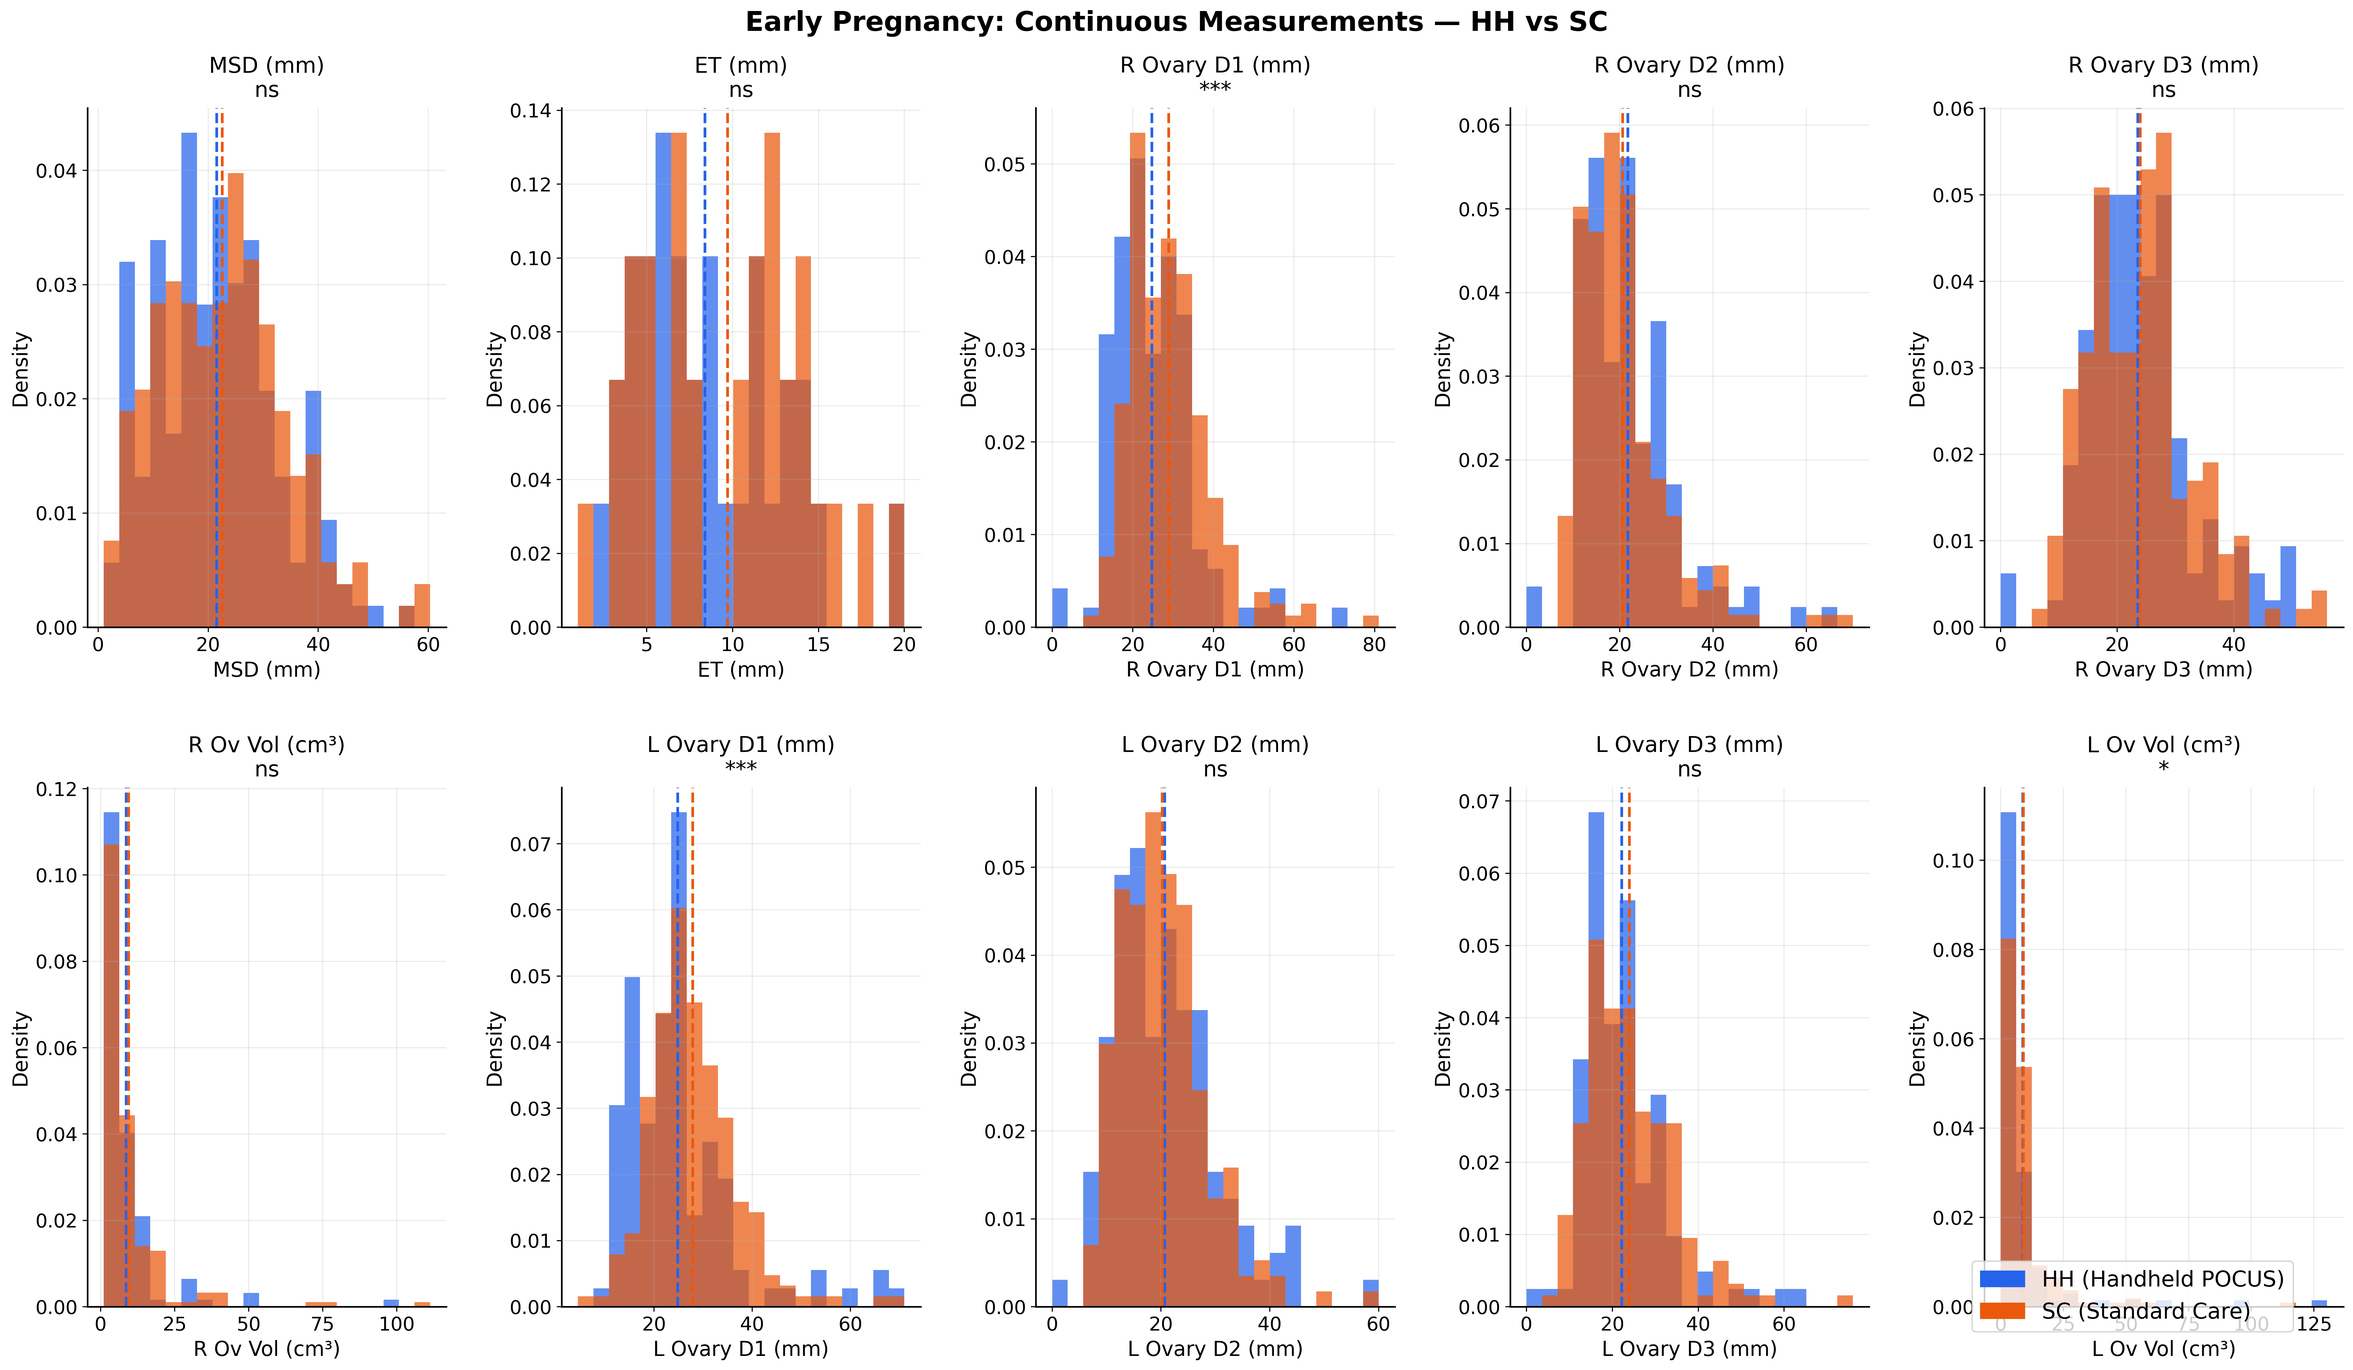
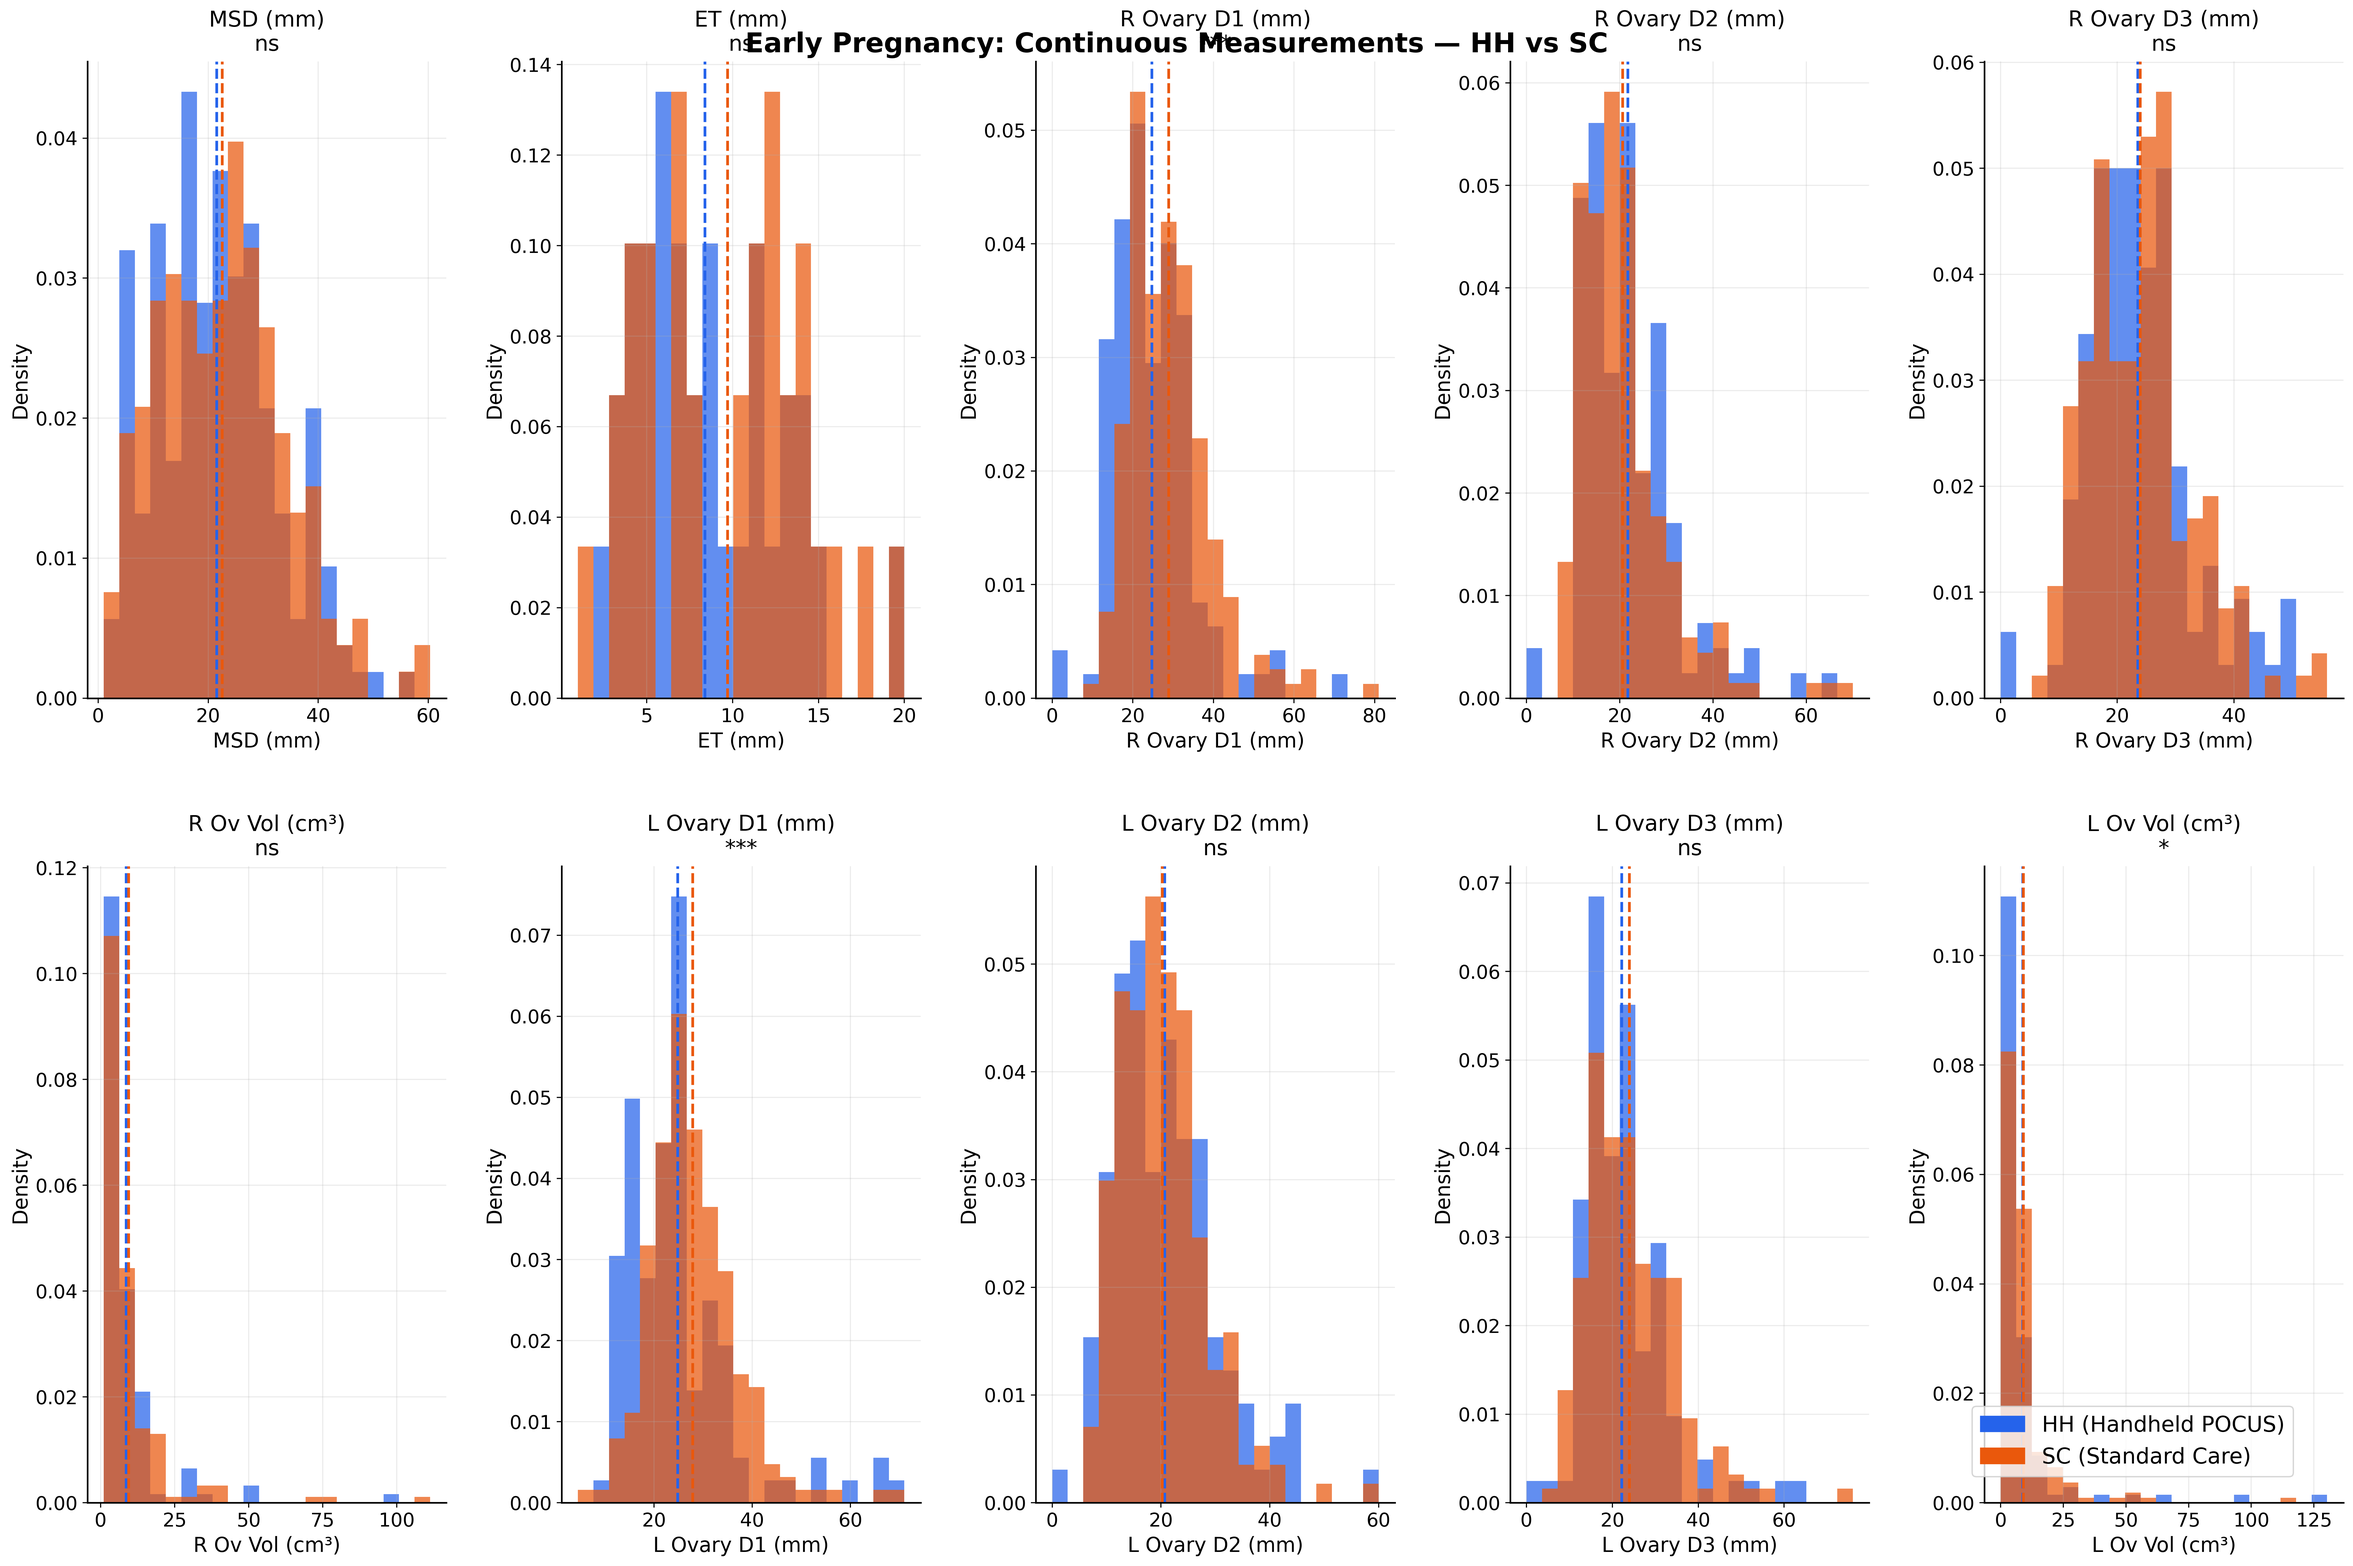
Fix Fig 2 cutoff: increase height to 24x16 and use constrained_layout=True

diff --git a/publication_figures.py b/publication_figures.py
@@ -186,7 +186,7 @@ def fig_ep_continuous():
     valid = [(l, h, s) for l, h, s in pairs if h in df.columns and s in df.columns]
     ncols = 5
     nrows = int(np.ceil(len(valid) / ncols))
-    fig, axes = plt.subplots(nrows, ncols, figsize=(24, 7 * nrows))
+    fig, axes = plt.subplots(nrows, ncols, figsize=(24, 8 * nrows), constrained_layout=True)
     axes = axes.flatten()
 
     for i, (label, hh_col, sc_col) in enumerate(valid):
@@ -209,10 +209,10 @@ def fig_ep_continuous():
         axes[j].set_visible(False)
 
     fig.legend(handles=[HH_PATCH, SC_PATCH], loc="lower right",
-               bbox_to_anchor=(0.98, 0.02), fontsize=FONT_BASE)
+               bbox_to_anchor=(0.98, 0.05), fontsize=FONT_BASE)
     fig.suptitle("Early Pregnancy: Continuous Measurements — HH vs SC",
-                 fontsize=FONT_BASE+4, fontweight="bold")
-    fig.subplots_adjust(hspace=0.55, wspace=0.38, top=0.88)
+                 fontsize=FONT_BASE+4, fontweight="bold", y=0.98)
+    # subplots_adjust is ignored when constrained_layout=True
     savefig("fig2_ep_continuous_measurements.png")
 
 
